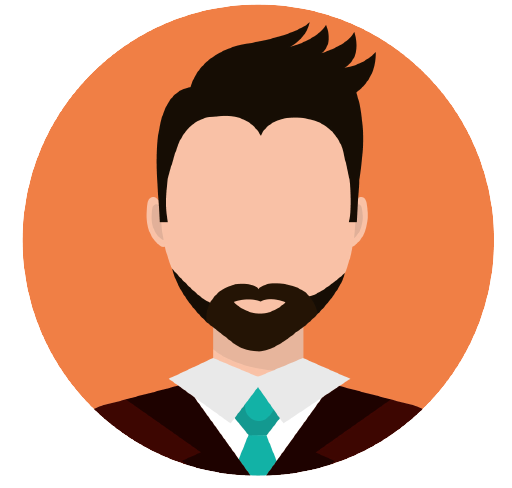
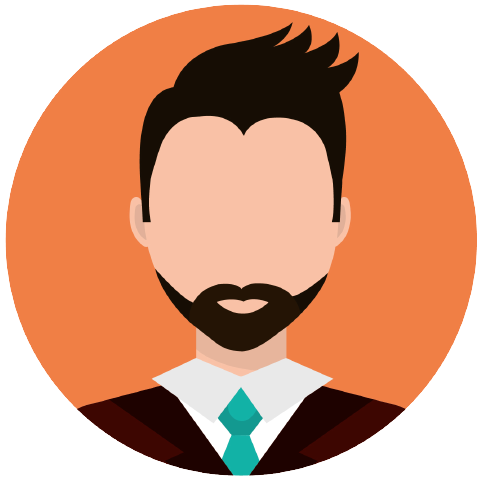
photo change feature added

diff --git a/scripts/profile.js b/scripts/profile.js
@@ -5,8 +5,33 @@ const submit = document.querySelector('.submit');
 const thanksMsg = document.querySelector('.thanks-msg');
 const nameEditBtn = document.querySelector('.name-edit-btn');
 const userName = document.querySelector('.name span');
+const popup = document.querySelector('.popup');
+const popupWraper = document.querySelector('.popup-wraper')
+const photoEditBtn = document.querySelector('.photo i');
+const userPhotos = document.querySelectorAll('.photo-select img');
+const userMainPhoto = document.querySelector('.photo img')
 let initUserName = '';
 let initMsg = '';
+let value = 1;
+
+photoEditBtn.addEventListener('click', () => {
+    popup.style.display = 'initial';
+})
+
+popupWraper.addEventListener('click', (event) => {
+    if (!event.target.classList.contains('photo-select'))
+        popup.style.display = 'none';
+})
+
+userPhotos.forEach((photo) => {
+    photo.addEventListener('click', (event) => {
+        value = event.target.dataset.value;
+        // console.log(value);
+        updatePhoto();
+        const selectedImageSrc = event.target.getAttribute('src');
+        userMainPhoto.setAttribute('src', selectedImageSrc);
+    });
+});
 
 nameEditBtn.addEventListener('click', () => {
     userName.textContent = userName.textContent.replace(/\s+/g, " ").trim();
@@ -57,7 +82,7 @@ nameEditBtn.addEventListener('click', () => {
 userName.addEventListener('paste', (event) => {
     event.preventDefault();
     const text = event.clipboardData.getData('text/plain');
-    if (text.length > 20){
+    if (text.length > 20) {
         userName.textContent = 'Limit exceeded > 20';
         nameEditBtn.style.display = 'none';
         userName.blur();
@@ -152,7 +177,7 @@ submit.addEventListener('click', () => {
 textMsg.addEventListener('paste', (event) => {
     event.preventDefault();
     const text = event.clipboardData.getData('text/plain');
-    if (text.length > 80){
+    if (text.length > 80) {
         thanksMsg.classList.remove('hidden');
         thanksMsg.querySelector('p').textContent = 'Oops! More than 80 chars';
         textMsg.style.display = 'none';
@@ -432,6 +457,27 @@ async function updateName() {
         });
         if (!response.ok) {
             throw new Error('Failed to update name');
+        }
+    } catch (error) {
+        console.error(error);
+        throw error;
+    }
+}
+
+async function updatePhoto() {
+    console.log('photo update')
+    try {
+        const response = await fetch('http://localhost:8080/updatePhoto', {
+            method: 'POST',
+            headers: {
+                'Content-Type': 'application/json',
+            },
+            body: JSON.stringify({
+                PhotoNumber: value
+            }),
+        });
+        if (!response.ok) {
+            throw new Error('Failed to update photo');
         }
     } catch (error) {
         console.error(error);

diff --git a/styles/profile.css b/styles/profile.css
@@ -159,6 +159,12 @@ nav {
     align-items: start;
 }
 
+.photo img {
+    width: 7rem;
+    border-radius: 50%;
+    cursor: pointer;
+}
+
 .photo i {
     color: var(--color-1);
     font-size: 1.2rem;
@@ -376,11 +382,44 @@ nav {
     position: relative;
 }
 
-#calendar_basic svg{
+#calendar_basic svg {
     position: absolute;
     width: 100%;
     height: 100%;
     top: 50%;
     left: 50%;
     transform: translate(-50%, -50%);
+}
+
+/* popup */
+
+.popup {
+    display: none;
+}
+
+.popup-wraper {
+    position: fixed;
+    height: 100%;
+    width: 100%;
+    z-index: 9999;
+    display: flex;
+    justify-content: center;
+    align-items: center;
+    background: rgba(0, 0, 0, 0.75);
+}
+
+.photo-select {
+    width: 50%;
+    height: 50%;
+    display: flex;
+    justify-content: space-around;
+    align-items: center;
+    /* background: #323437; */
+    border-radius: 10px;
+}
+
+.photo-select img {
+    width: 8rem;
+    border-radius: 50%;
+    cursor: pointer;
 }

diff --git a/index.js b/index.js
@@ -280,6 +280,18 @@ app.post('/updateName', async (req, res) => {
   }
 });
 
+app.post('/updatePhoto', async (req, res) => {
+  try {
+    const photoNo = req.body.PhotoNumber;
+    userData.photoNumber = photoNo;
+    await userData.save();
+    res.sendStatus(200);
+  } catch (error) {
+    console.error(error);
+    res.status(500).send('Error updating name');
+  }
+});
+
 app.get('/userfind', async (req, res) => {
   const user = await User.find({});
   // await User.deleteMany({});
